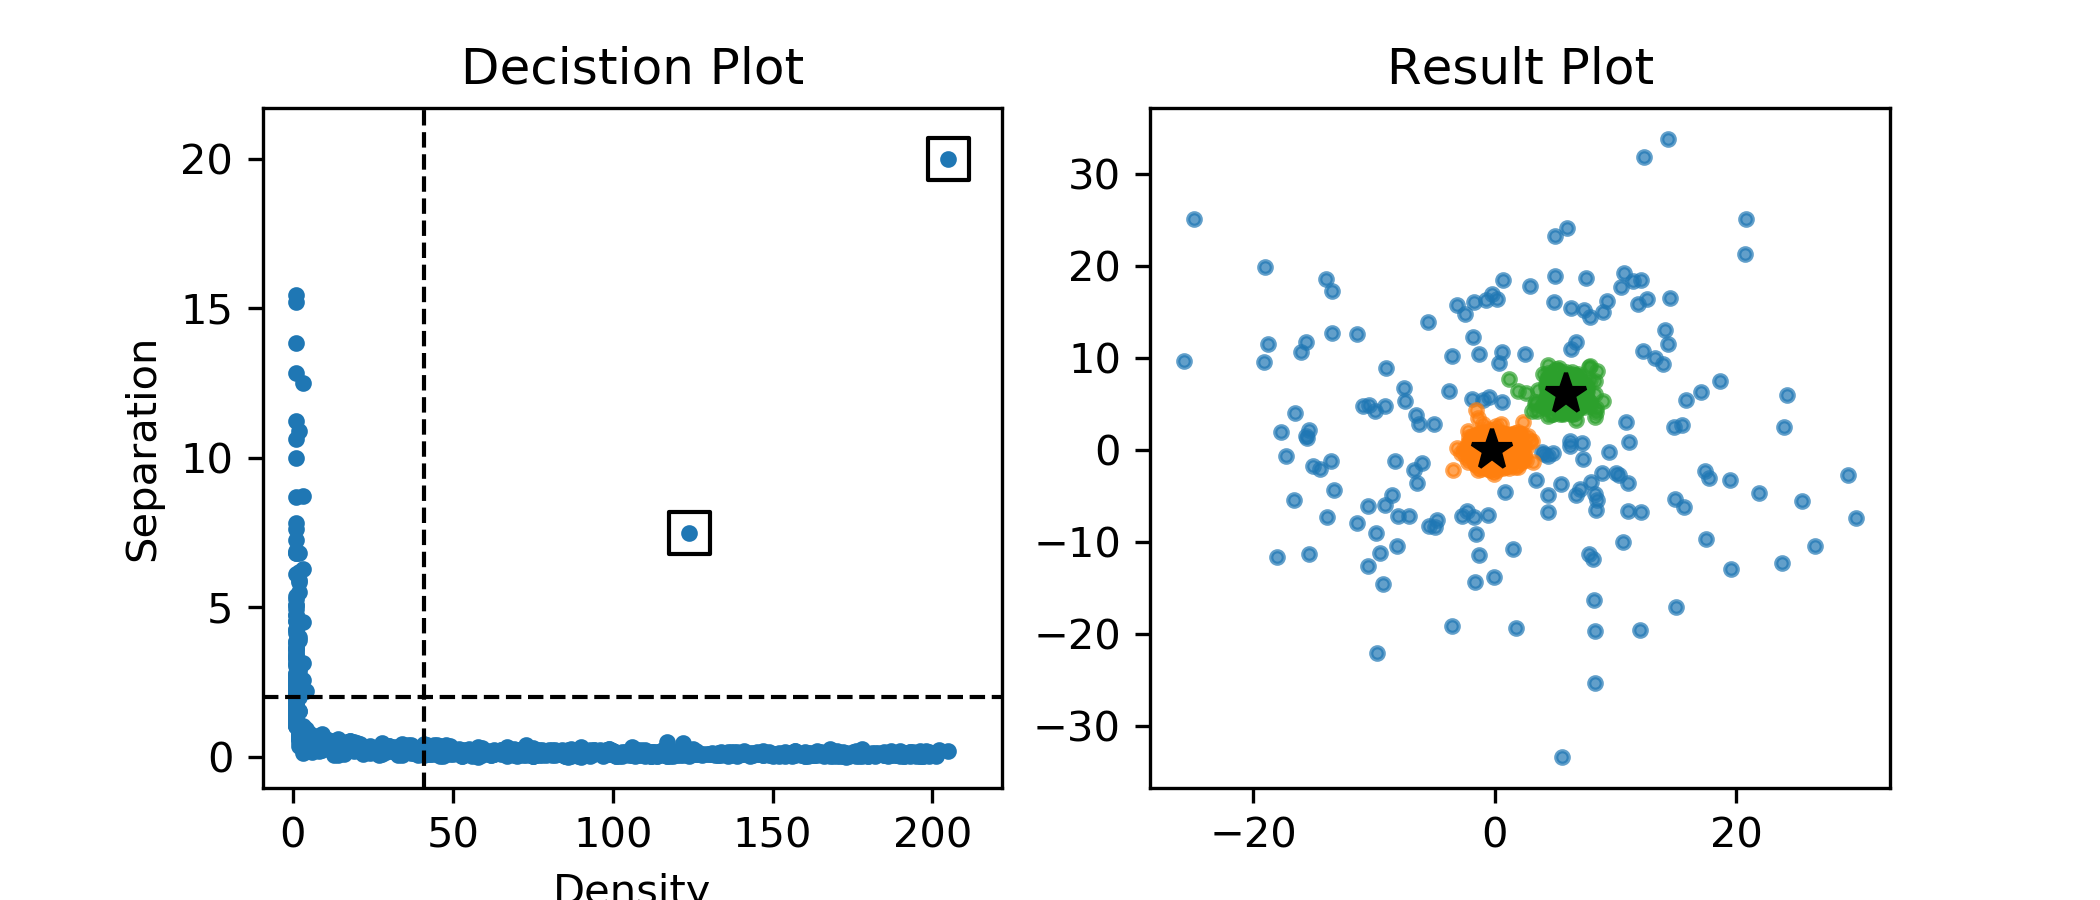
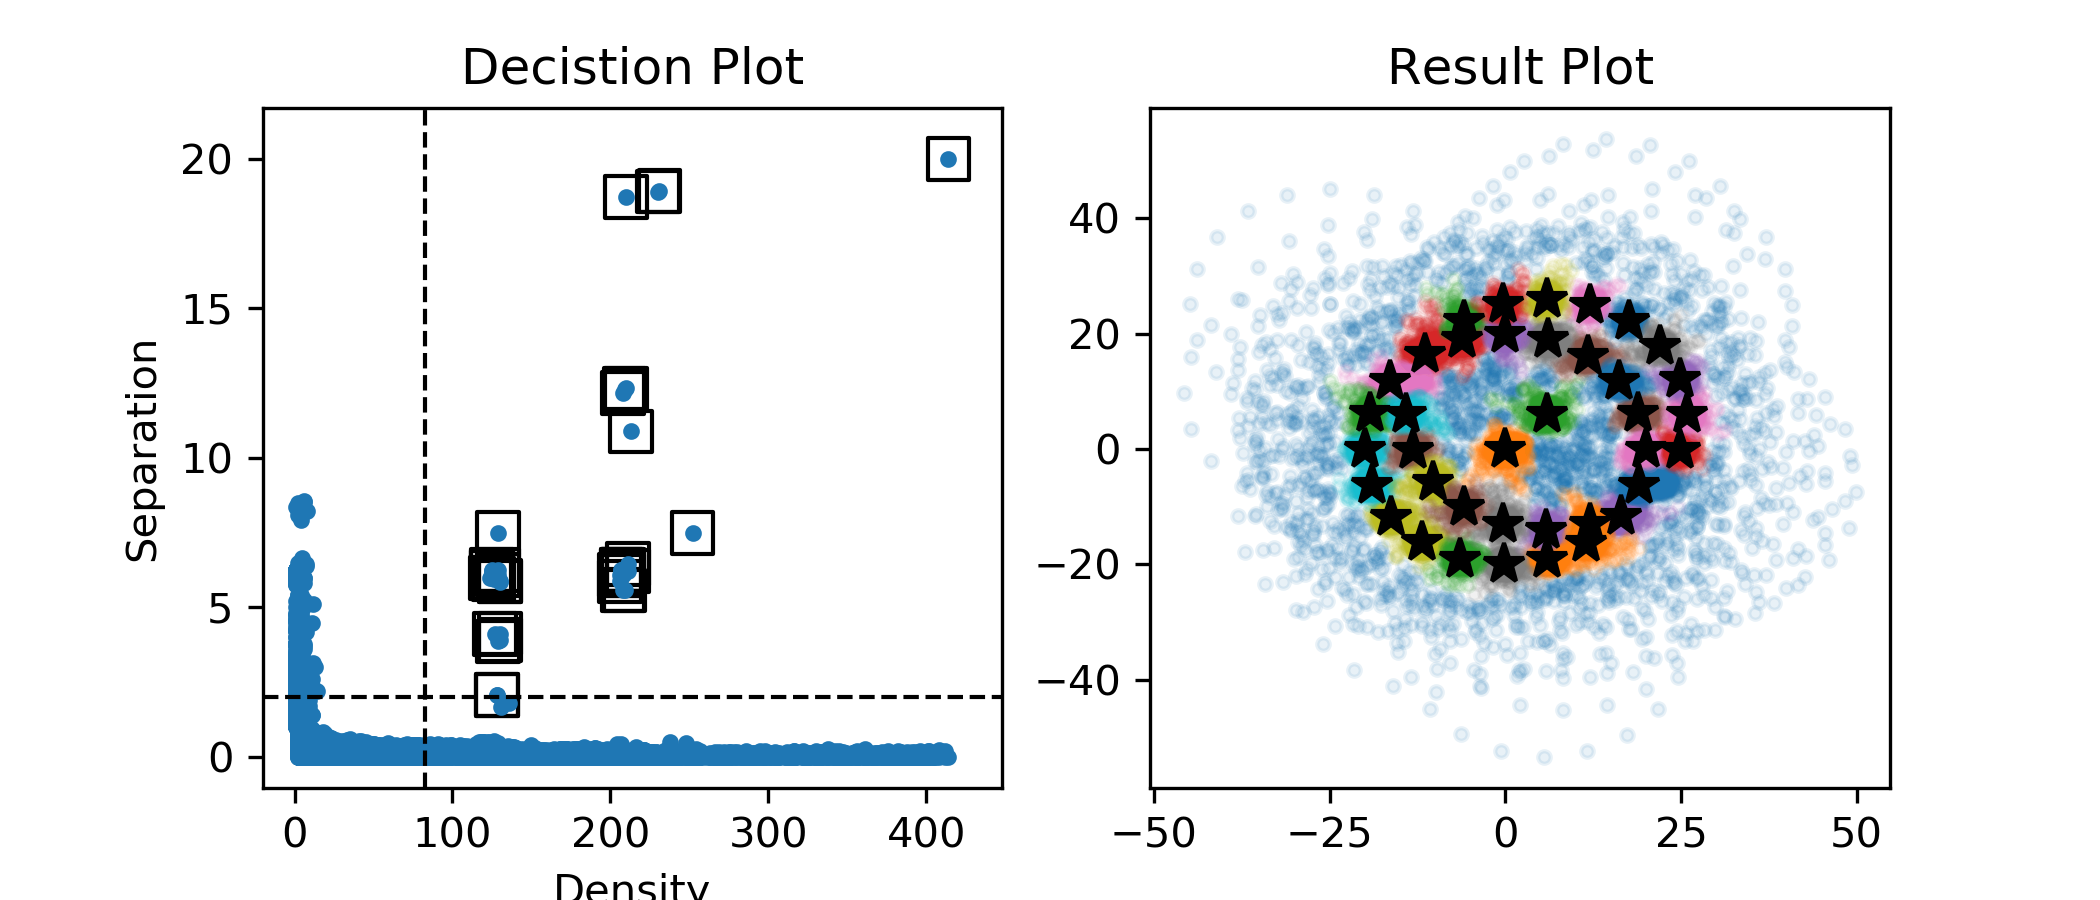
implement numpy with kdbin

diff --git a/ImageAlgoKD/ImageAlgoKD.py b/ImageAlgoKD/ImageAlgoKD.py
@@ -21,7 +21,7 @@ if cudaIsAvailable:
 
 if openclIsAvailable:
     from ImageAlgoKD_kernel_opencl import *
-    from utilities import openclInfo
+    from Utilities import openclInfo
 
 class ImageAlgoKD():
     def __init__(self,
@@ -54,9 +54,15 @@ class ImageAlgoKD():
         elif (method == "opencl") & openclIsAvailable:
             self.getDecisionVariables_opencl(deviceID,blockSize)
             self.method = "opencl"
+        
+        elif (method == "numpybin"): #& (self.points.k in [2,3,4]):
+            self.getDecisionVariables_numpybin()
+            self.method = "numpybin"
+
         else:
             self.getDecisionVariables_numpy()
             self.method = "numpy"
+
         print("clustering finished!")
         end = timer()
 
@@ -200,28 +206,33 @@ class ImageAlgoKD():
     def getDecisionVariables_numpy(self):
 
         n, k = self.points.n, self.points.k
-
+        ###########################
         # find rho 
+        ###########################
         rho = []
         for i in range(n):
-            dr = self.norm2Distance(self.points.cords, self.points.cords[i])
+            dr = self._norm2Distance(self.points.cords, self.points.cords[i])
             local = (dr<self.KERNEL_R)
-            if self.KERNEL_R_POWER != 0:
-                irho = np.sum( self.points.weights[local] * np.exp( - (dr[local]/self.KERNEL_R_NORM)**self.KERNEL_R_POWER ))
-            else:
+            if self.KERNEL_R_POWER == 0:
                 irho = np.sum( self.points.weights[local] )
+            else:
+                irho = np.sum( self.points.weights[local] * np.exp( - (dr[local]/self.KERNEL_R_NORM)**self.KERNEL_R_POWER ))
+    
             rho.append(irho)
         rho = np.array(rho)
 
+        ###########################
         # find rhorank
+        ###########################
         argsortrho = rho.argsort(kind='mergesort')[::-1]
         rhorank = np.empty(rho.size, int)
         rhorank[argsortrho] = np.arange(rho.size)
 
+        ###########################
         # find NearstHiger and distance to NearestHigher
+        ###########################
         nh,nhd = [],[]
         for i in range(n):
-            irho  = rho[i]
             irank = rhorank[i]
             
             higher = rhorank<irank
@@ -230,7 +241,7 @@ class ImageAlgoKD():
                 nh. append(i)
                 nhd.append(self.MAXDISTANCE)
             else:
-                drr  = self.norm2Distance(self.points.cords[higher], self.points.cords[i])
+                drr  = self._norm2Distance(self.points.cords[higher], self.points.cords[i])
                 temp = np.arange(rho.size)[higher]
                 nh. append(temp[np.argmin(drr)])
                 nhd.append(np.min(drr))
@@ -244,5 +255,193 @@ class ImageAlgoKD():
         self.points.nh  = nh
         self.points.nhd = nhd
 
-    def norm2Distance(self, p1,p2):
+
+
+
+    # def getDecisionVariables_openclbin(self, deviceID=0, blockSize=1):
+
+    #     context,prg = openclKernel(DeviceID=deviceID)
+    #     queue = cl.CommandQueue(context)
+
+    #     n, k = self.points.n, self.points.k
+
+    #     LOCALSIZE  = int(blockSize)
+    #     GLOBALSIZE = (int(n/LOCALSIZE)+1)*LOCALSIZE
+
+    #     # allocate memery on device for points and decision parameters
+    #     d_rho     = cl.Buffer(context, cl.mem_flags.READ_WRITE, self.points.rho.nbytes)
+    #     d_rhorank = cl.Buffer(context, cl.mem_flags.READ_WRITE, self.points.rhorank.nbytes)
+    #     d_nh      = cl.Buffer(context, cl.mem_flags.READ_WRITE, self.points.nh.nbytes)
+    #     d_nhd     = cl.Buffer(context, cl.mem_flags.READ_WRITE, self.points.nhd.nbytes)
+
+    #     # copy memergy to device
+    #     d_cords   = cl.Buffer(context, cl.mem_flags.READ_ONLY | cl.mem_flags.COPY_HOST_PTR, hostbuf=self.points.cords)
+    #     d_wegiths = cl.Buffer(context, cl.mem_flags.READ_ONLY | cl.mem_flags.COPY_HOST_PTR, hostbuf=self.points.weights)
+
+    #     # run KERNEL on device
+    #     prg.rho_opencl( queue, (GLOBALSIZE,), (LOCALSIZE,),
+    #                     d_rho, d_cords, d_wegiths,
+    #                     # algorithm parameters
+    #                     n, k, self.KERNEL_R, self.KERNEL_R_NORM, self.KERNEL_R_POWER
+    #                     )
+
+
+    #     prg.rhoranknh_opencl(   queue, (GLOBALSIZE,), (LOCALSIZE,),
+    #                             d_rhorank, d_nh, d_nhd, d_cords, d_rho,
+    #                             # algorithm paramters
+    #                             n, k, self.MAXDISTANCE
+    #                             )
+
+    #     # copy memery from device to host
+    #     cl.enqueue_copy(queue, self.points.rho, d_rho)
+    #     cl.enqueue_copy(queue, self.points.rhorank, d_rhorank)
+    #     cl.enqueue_copy(queue, self.points.nh, d_nh)
+    #     cl.enqueue_copy(queue, self.points.nhd, d_nhd)
+
+    #     # release globle memery on device
+    #     d_cords.release()
+    #     d_wegiths.release()
+    #     d_rho.release()
+    #     d_rhorank.release()
+    #     d_nh.release()
+    #     d_nhd.release()
+
+
+
+    def getDecisionVariables_numpybin(self):
+        '''
+        numpy for bined data
+        '''
+
+        n, k = self.points.n, self.points.k
+        self.points.binPoints(self.KERNEL_R)
+
+        ###########################
+        # find rho, O(n)
+        ###########################
+        rho = np.zeros(n)
+        # loop over location keys
+        for key in self.points.keys:
+            idxPoints,keyNeighbors = self.points.bins[key]
+            idxNeighbors = self.points.getIdxNeighbors(key)
+
+            # loop over points in the location key
+            for idxPoint in idxPoints:
+                icord   = np.take(self.points.cords,idxPoint,axis=0)
+                jcord   = np.take(self.points.cords,idxNeighbors,axis=0)
+                jweight = np.take(self.points.weights,idxNeighbors,axis=0)
+                # get density of the points and save to rho
+                dr = self._norm2Distance(icord,jcord)
+
+                local = dr<self.KERNEL_R
+                if self.KERNEL_R_POWER == 0:
+                    irho = np.sum( jweight[local] )
+                else:
+                    irho = np.sum(  weight[local] * np.exp( - (dr[local]/self.KERNEL_R_NORM)**self.KERNEL_R_POWER ))
+
+                rho[idxPoint] = irho
+
+        ###########################
+        # find rhorank, O(nlogn) based on mergesort
+        ###########################
+        argsortrho = rho.argsort(kind='mergesort')[::-1]
+        rhorank = np.empty(rho.size, int)
+        rhorank[argsortrho] = np.arange(rho.size)
+
+        ###########################
+        # find NearstHiger and distance to NearestHigher,O(mn)
+        ###########################
+        nh = np.arange(n)
+        nhd = np.zeros(n)
+        
+        self.nNNSearch, self.nGlobalSearch = 0,0
+
+        # loop over keys
+        for key in self.points.keys:
+            idxPoints,stencilKeys = self.points.bins[key]
+
+            # query neighers
+            idxNeighbors = self.points.getIdxNeighbors(key)
+            rhorankNeighbors = rhorank[idxNeighbors]
+            cordNeighbors = self.points.cords[idxNeighbors]
+            nNeighbors = len(idxNeighbors)
+
+            # nNeighors exit
+            # if nNeighbors > 1:
+
+            # loop over points in the key
+            for idxPoint in idxPoints:
+                irhorank = rhorank[idxPoint]
+                icord = self.points.cords[idxPoint]
+                
+                #isearchGlobal = True
+                # search NH in neighbors
+                higherInNeighbors = rhorankNeighbors < irhorank
+                if (True in higherInNeighbors):
+                    self.nNNSearch += 1
+                    #isearchGlobal = False
+
+
+                    dr = self._norm2Distance( icord, cordNeighbors[higherInNeighbors])
+                    idxHighers = np.arange(nNeighbors)[higherInNeighbors]
+
+                    inhd = np.min(dr)
+                    
+                    # requiring inhd in save area
+                    if inhd<self.KERNEL_R:
+                        #inh  = idxNeighbors[ idxHighers[np.argmin(dr)] ]
+                        inh = np.array(idxNeighbors)[ idxHighers[ np.argwhere(dr==inhd).reshape(-1) ] ].min()
+
+                        nh [idxPoint] = inh
+                        nhd[idxPoint] = inhd
+                    else:
+                        nh[idxPoint],nhd[idxPoint] = self._searchNHGlobal(idxPoint,rhorank)
+                
+                 # search NH in globe
+                else:
+                    nh[idxPoint],nhd[idxPoint] = self._searchNHGlobal(idxPoint,rhorank)
+
+                    # self.nGlobalSearch += 1
+                    # higher = rhorank < irhorank
+                    # # find higher
+                    # if (True in higher): 
+                    #     dr  = self._norm2Distance(self.points.cords[idxPoint],self.points.cords[higher])
+                    #     idxHighers = np.arange(self.points.n)[higher]
+                    #     nh[idxPoint]  = idxHighers[np.argmin(dr)]
+                    #     nhd[idxPoint] = np.min(dr)
+                    # # no higher are found
+                    # else:
+                    #     nh[idxPoint]= idxPoint
+                    #     nhd[idxPoint] = self.MAXDISTANCE
+
+
+
+        # save the decision variables to points
+        self.points.rho = rho
+        self.points.rhorank = rhorank
+        self.points.nh  = nh
+        self.points.nhd = nhd
+
+        self.effNN = self.nNNSearch/(self.nGlobalSearch+self.nNNSearch)
+
+
+    ## private functions
+    def _norm2Distance(self, p1,p2):
         return np.sqrt( np.sum((p1-p2)**2, axis=-1) )
+
+    def _searchNHGlobal(self,idxPoint,rhorank):
+        
+        self.nGlobalSearch += 1
+        higher = rhorank < rhorank[idxPoint]
+        # find higher
+        if (True in higher): 
+            dr  = self._norm2Distance(self.points.cords[idxPoint],self.points.cords[higher])
+            idxHighers = np.arange(self.points.n)[higher]
+            inh  = idxHighers[np.argmin(dr)]
+            inhd = np.min(dr)
+        # no higher are found
+        else:
+            inh = idxPoint
+            inhd = self.MAXDISTANCE
+
+        return inh,inhd

diff --git a/ImageAlgoKD/DataStructure.py b/ImageAlgoKD/DataStructure.py
@@ -2,6 +2,7 @@ from pylab import *
 
 class Points():
     def __init__(self, cords):
+        self.inbins = False
 
         self.cords = cords.astype(np.float32)
         self.n = np.int32( cords.shape[0] )
@@ -9,6 +10,7 @@ class Points():
 
         self.weights = np.ones (self.n).astype(np.float32) 
         self.reset() 
+
 
     def reset(self):
         # decision variables
@@ -24,7 +26,67 @@ class Points():
     def setWeights(self, weights):
         self.weights = weights.astype(np.float32)
 
+    def binPoints(self,KERNEL_R):
+        if self.k in [2,3,4]:
+
+            # push references of points to the hashmap
+            bins = {}
+            for i in range(self.n):
+                key = np.floor(self.cords[i]/KERNEL_R)
+                key *= KERNEL_R
+                key = tuple(key)
+                if key in bins:
+                    bins[key] = bins[key]+[i]
+                else:
+                    bins[key] = [i]
+
+            self.keys = bins.keys()
+
+            # getting stencil
+            if self.k == 2:
+                vx,vy = np.mgrid[-1.0:2.0,-1.0:2.0]
+            elif self.k == 3:
+                vx,vy = np.mgrid[-1.0:2.0,-1.0:2.0,-1.0:2.0]
+            elif self.k == 4:
+                vx,vy = np.mgrid[-1.0:2.0,-1.0:2.0,-1.0:2.0,-1.0:2.0]
+
+            vx,vy = vx.reshape(-1),vy.reshape(-1)
+            stencil = np.c_[vx,vy] 
+            stencil *= KERNEL_R
+            self.stencil = stencil
 
 
-        
-        
+            # push keys of stencils to hashmap
+            for key in self.keys:
+                key = np.array(key)
+                # collect index in neighering bins
+                stencilKeys = []
+                for i in self.stencil:
+                    ikey = key + i
+                    ikey = tuple(ikey)
+                    if ikey in bins:
+                        stencilKeys += [ikey]
+                key = tuple(key)
+                bins[key] = ( bins[key], stencilKeys )
+
+            self.bins = bins
+            self.isbinned = True
+
+        else:
+            print(" Bin not available")
+
+
+    def getIdxNeighbors(self, key):
+        if self.isbinned:
+
+            idxPoints,keyNeighbors = self.bins[key]
+
+            idxNeighbors = []
+
+            for key in keyNeighbors:
+                idxNeighbors += self.bins[key][0]
+
+            return idxNeighbors
+        else:
+            print(' Bin not available')
+

diff --git a/ImageAlgoKD/ImageAlgoKD_kernel_opencl.py b/ImageAlgoKD/ImageAlgoKD_kernel_opencl.py
@@ -116,6 +116,7 @@ def openclKernel(DeviceID=0):
     }
 
     """
+    
     ).build()
     return context,prg
 
